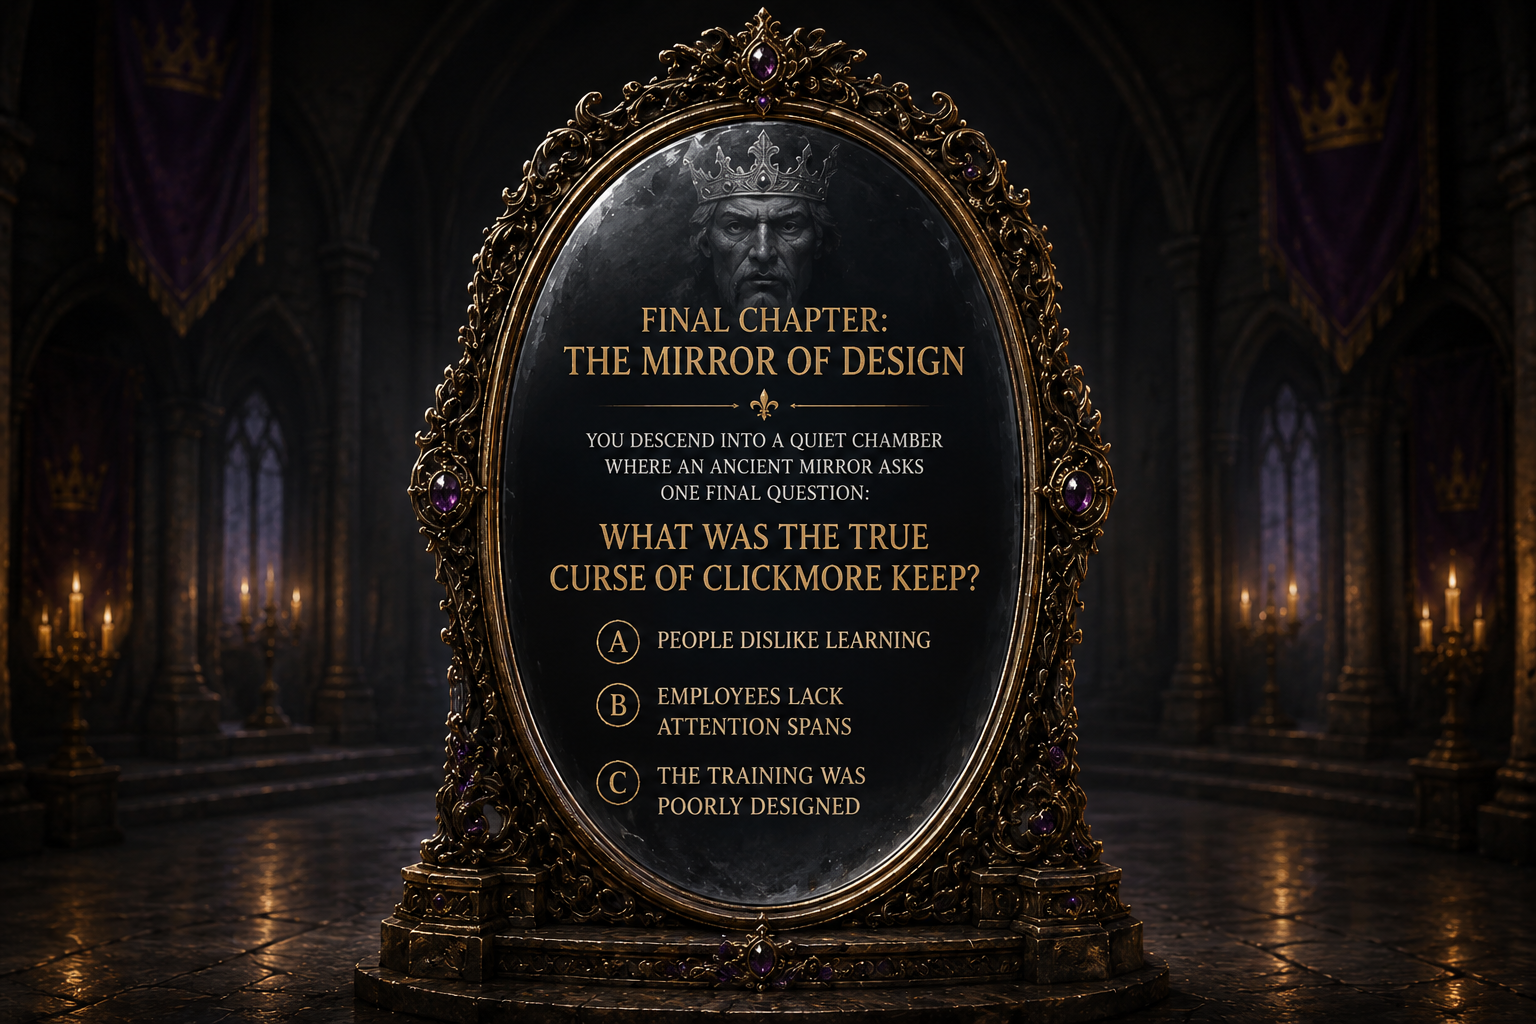
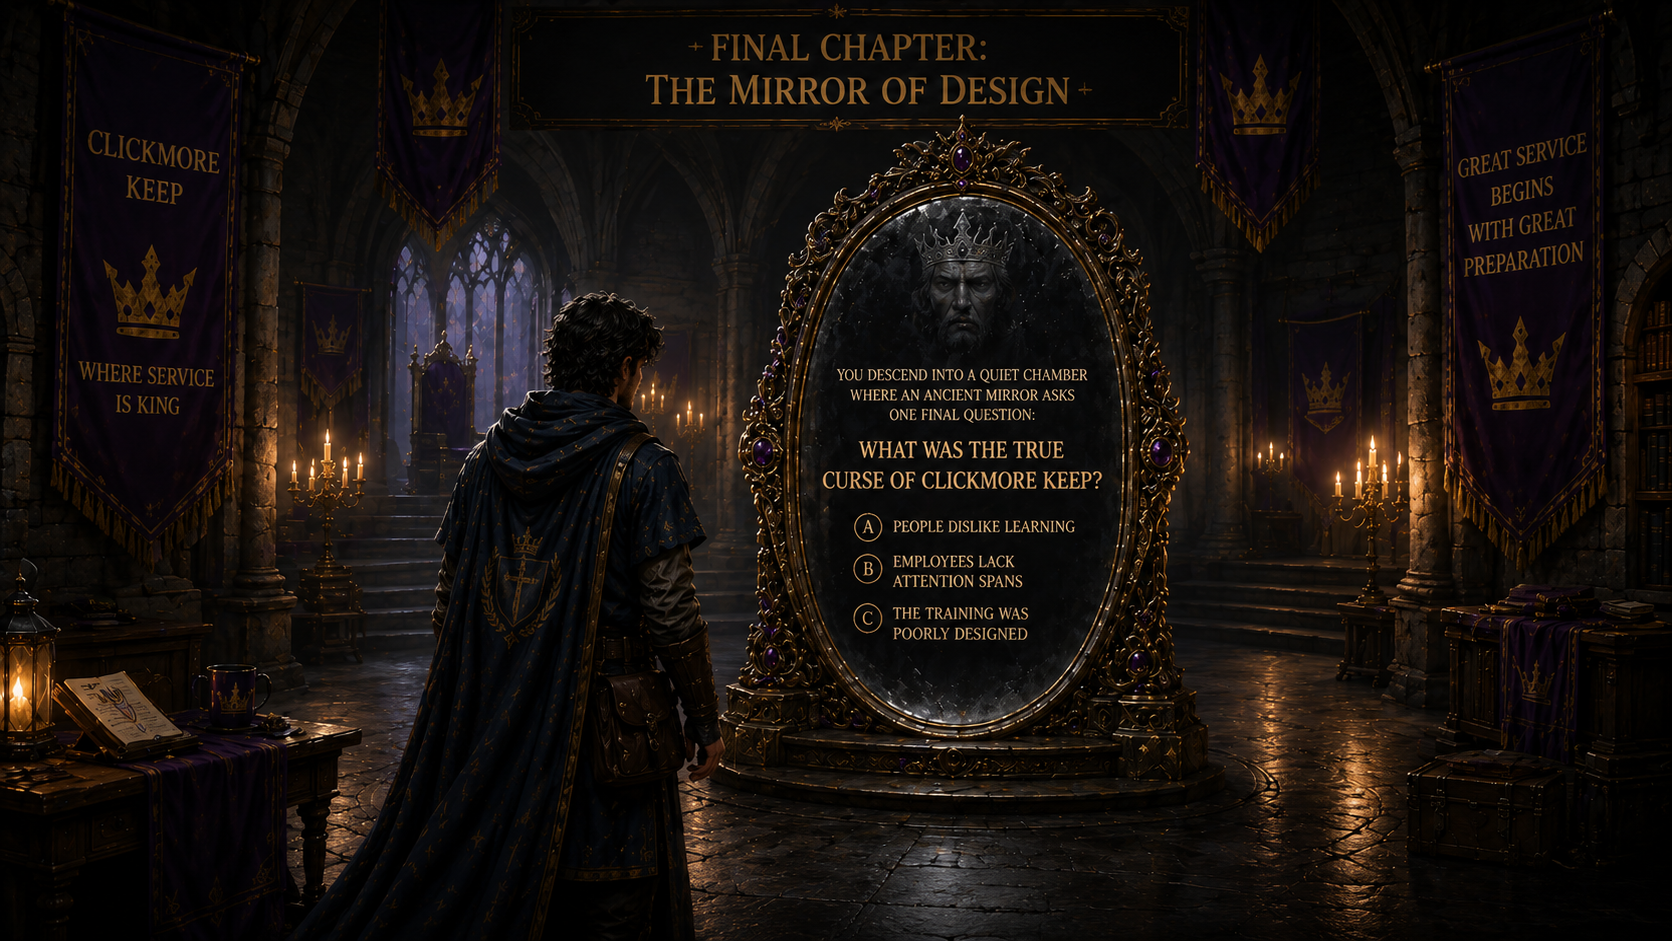
remove duplicate cursor effect from HomeClient

diff --git a/content/posts/clickmore.md b/content/posts/clickmore.md
@@ -131,8 +131,9 @@ What was the true curse of Clickmore Keep?
 
 **C)** The training was poorly designed
 
-#### If you choose A or B
+#### If you choose A or B 
 
+![clickmore four](/static/images/clickmore/cm-four-ab.png)
 
 The mirror buzzes politely, “Common myth. Try again.”
 
